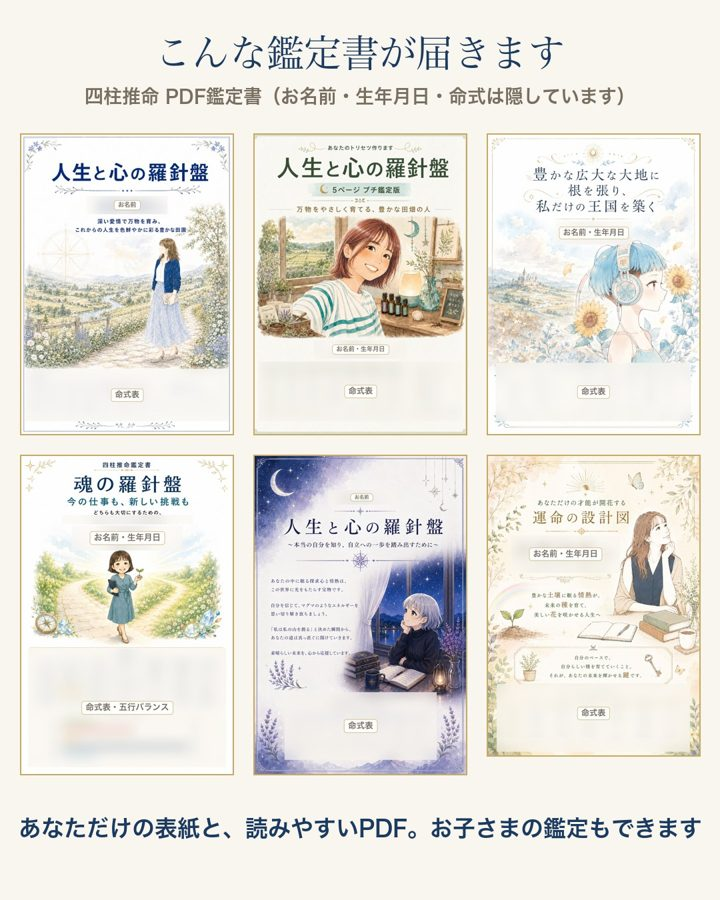
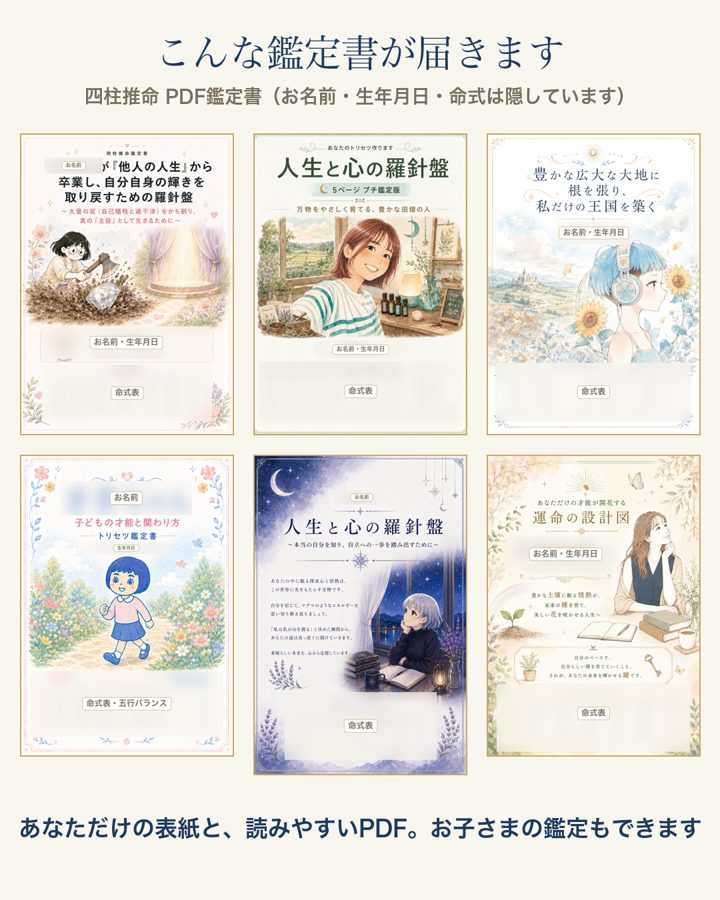
鑑定書見本を承諾済みの表紙に差し替え、セッションの見本画像を追加

Changed region(s): [[0.0306, 0.1556, 0.3361, 0.7467], [0.0306, 0.7778, 0.3361, 0.8711], [0.1222, 0.4667, 0.1528, 0.4978]]

diff --git a/arigatou/index.html b/arigatou/index.html
@@ -77,6 +77,8 @@ footer a{color:var(--soft)}
     <div class="no">MENU ①</div>
     <h3>エニアグラム個別セッション 60分</h3>
     <p class="desc">診断で出たタイプが、ほんとうにあなたなのか。公認心理師と話しながら、対話で見きわめます。オンライン（Zoom）。</p>
+    <img src="session-sample.jpg" alt="Zoomセッションのようすと、セッション後にお渡しするタイプカード" style="width:100%;border-radius:6px;margin:10px 0 4px;border:1px solid #eee">
+    <p class="desc" style="font-size:13px">セッションのあとに、あなたのタイプの「取り扱い説明書」カードをプレゼントします。</p>
     <p class="price"><s>7,700円</s>→<b>7,000</b>円（税込）</p>
     <a class="btn" href="https://satchan-cocoro.github.io/enneagram-session/">日時を選んで申し込む</a>
     <div class="steps">予約ページで日時を選ぶ → 届くメールのPayPalリンクでお支払い → Zoomのリンクが届きます</div>
